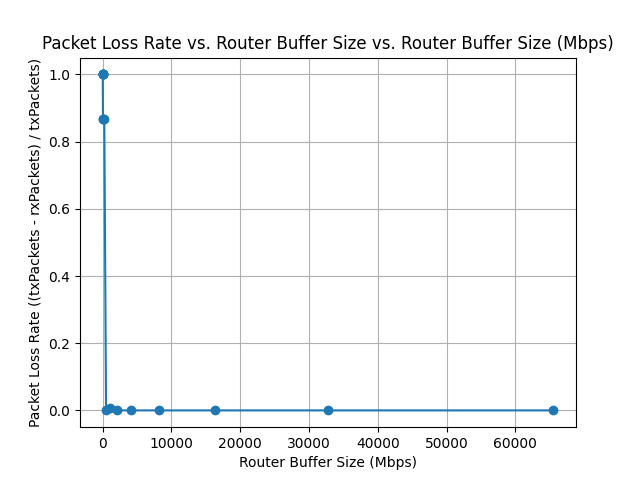
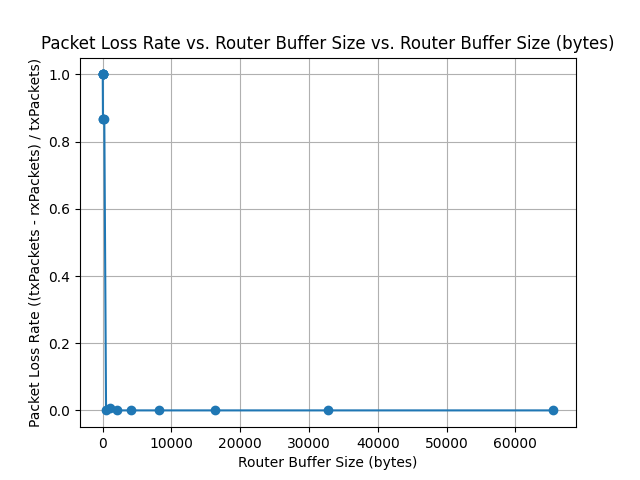
update the figures of all four experiments

Changed region(s): [[0.0625, 0.0625, 0.9688, 0.125], [0.375, 0.9375, 0.6562, 1.0]]

diff --git a/experiment/02_result/data_process_RouterBuffer.py b/experiment/02_result/data_process_RouterBuffer.py
@@ -51,9 +51,9 @@ def process_data(data, qos_parameter):
 
 def plot_figure(x, y, xlabel, ylabel, title, filename):
     plt.plot(x, y, marker='o')
-    plt.xlabel(f'{xlabel} (Mbps)')
+    plt.xlabel(f'{xlabel} (bytes)')
     plt.ylabel(f'{ylabel}')
-    plt.title(f'{title} vs. {xlabel} (Mbps)')
+    plt.title(f'{title} vs. {xlabel} (bytes)')
     plt.grid(True)
     plt.savefig(filename)
     plt.close()

diff --git a/experiment/02_result/data_process_TCPBuffer.py b/experiment/02_result/data_process_TCPBuffer.py
@@ -51,9 +51,9 @@ def process_data(data, qos_parameter):
 
 def plot_figure(x, y, xlabel, ylabel, title, filename):
     plt.plot(x, y, marker='o')
-    plt.xlabel(f'{xlabel} (Mbps)')
+    plt.xlabel(f'{xlabel} (bytes)')
     plt.ylabel(f'{ylabel}')
-    plt.title(f'{title} vs. {xlabel} (Mbps)')
+    plt.title(f'{title} vs. {xlabel} (bytes)')
     plt.grid(True)
     plt.savefig(filename)
     plt.close()

diff --git a/experiment/03_result/data_process_MTU.py b/experiment/03_result/data_process_MTU.py
@@ -51,9 +51,9 @@ def process_data(data, qos_parameter):
 
 def plot_figure(x, y, xlabel, ylabel, title, filename):
     plt.plot(x, y, marker='o')
-    plt.xlabel(f'{xlabel} (Mbps)')
+    plt.xlabel(f'{xlabel} (bytes)')
     plt.ylabel(f'{ylabel}')
-    plt.title(f'{title} vs. {xlabel} (Mbps)')
+    plt.title(f'{title} vs. {xlabel} (bytes)')
     plt.grid(True)
     plt.savefig(filename)
     plt.close()
